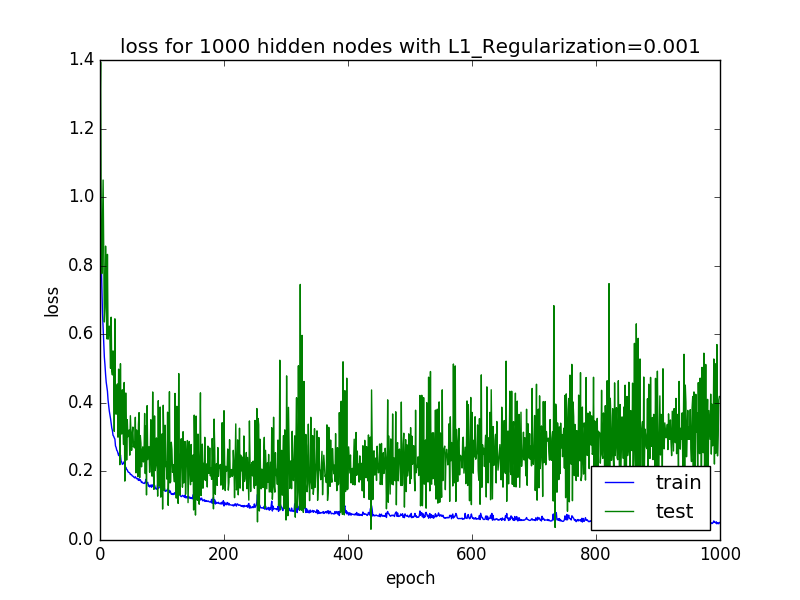
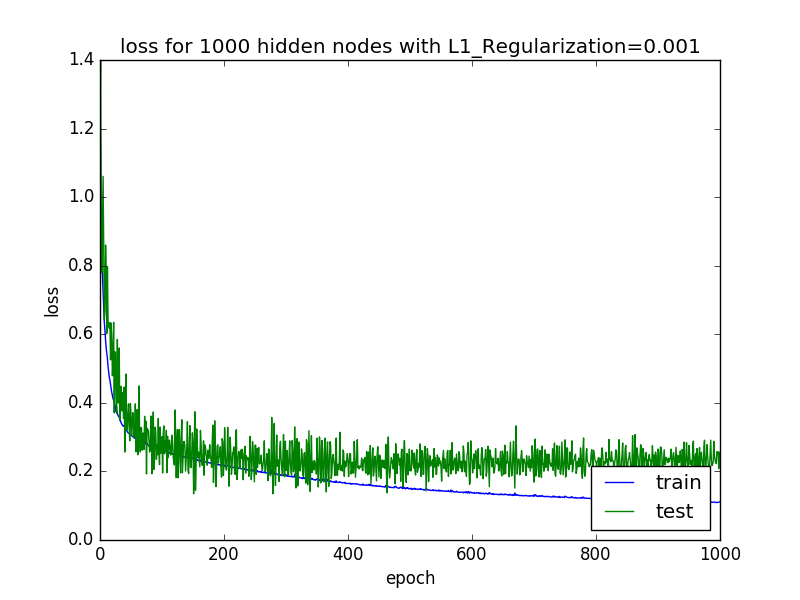
Changed regularization

Changed region(s): [[0.125, 0.48, 0.9062, 0.87]]

diff --git a/Tarefa2/FC2Layer_regularization.py b/Tarefa2/FC2Layer_regularization.py
@@ -39,7 +39,7 @@ VALIDATIONPERC = 0.15
 l1Reg = 0.001
 l2Reg = 0.001
 dropout = 0.2
-hidden_nodes = [1000] # Vector with hidden_nodes on second layer use [x1, x2, x3, ..., xn]
+hidden_nodes = [10, 100, 1000, 10000] # Vector with hidden_nodes on second layer use [x1, x2, x3, ..., xn]
 
 ########################
 #FUNCTIONS
@@ -118,17 +118,22 @@ for h in range(0, len(hidden_nodes)):
 		# creates layer with hidden_nodes nodes and chooses which regularization it will use
 		if i == 0:
 			model.add(Dense(hidden_nodes[h], input_dim=4, init='normal', activation='relu', W_regularizer = l1(l1Reg)))
+			# output layer
+			model.add(Dense(3, init='normal', activation='softmax', W_regularizer = l1(l1Reg)))
 			regStr = "L1_Regularization="+str(l1Reg)
 		elif i == 1:
 			model.add(Dense(hidden_nodes[h], input_dim=4, init='normal', activation='relu', W_regularizer = l2(l2Reg)))
 			regStr = "L2_Regularization="+str(l2Reg)
+			# output layer
+			model.add(Dense(3, init='normal', activation='softmax', W_regularizer = l2(l2Reg)))
 		else:
 			model.add(Dense(hidden_nodes[h], input_dim=4, init='normal', activation='relu'))
 			model.add(Dropout(dropout))
+			# output layer
+			model.add(Dense(3, init='normal', activation='softmax'))
 			regStr = "Dropout="+str(dropout)
 		print("Added",regStr)
-		# output layer
-		model.add(Dense(3, init='normal', activation='softmax'))
+
 		# Compile model
 		model.compile(loss='categorical_crossentropy', optimizer='adam', metrics=['accuracy'])
 
